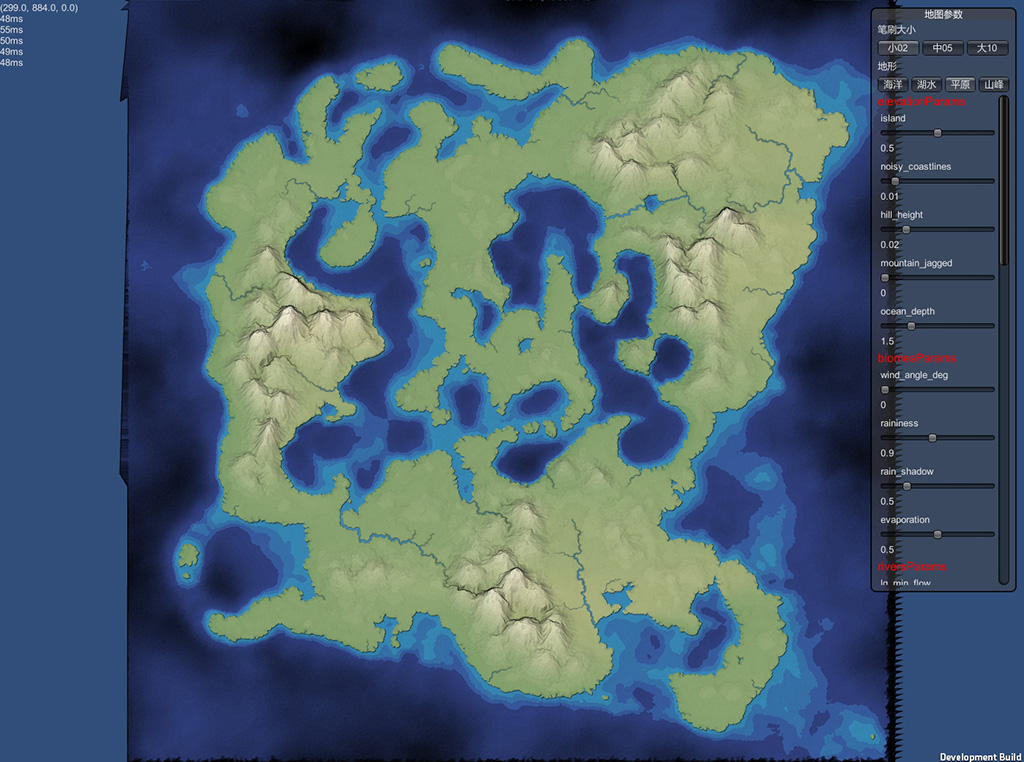
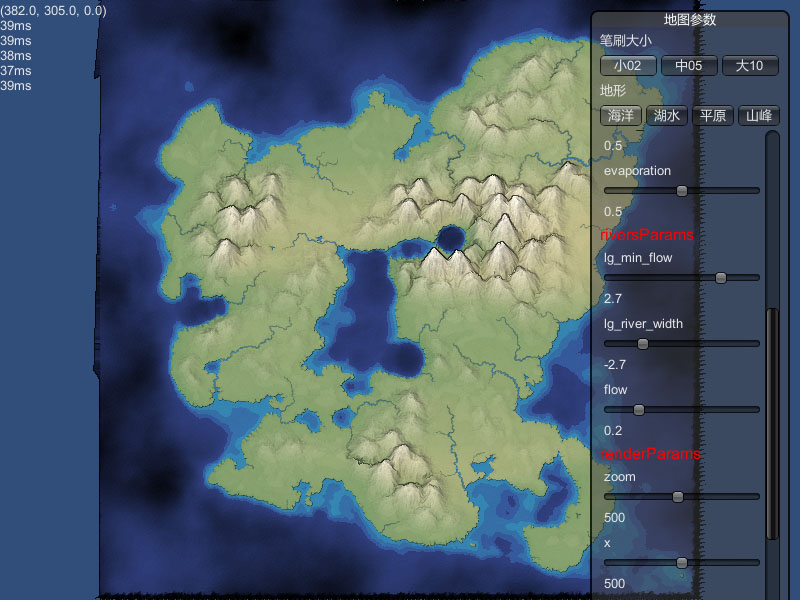
[!] 地形修改后渲染到纹理 => GUI.DrawTexture(rt)

diff --git a/Assets/MapMesh.cs b/Assets/MapMesh.cs
@@ -26,6 +26,8 @@ namespace Assets
         private GameObject tmpObj { get; set; }
         private Camera mainCamera { get; set; }
 
+        public RenderTexture renderTexture { get; private set; }
+
 
         private void Awake()
         {
@@ -39,7 +41,11 @@ namespace Assets
             landzs = MeshSplit.createMesh(transform, "map mesh");
 
             tmpObj = new GameObject("__worldToLandPosition");
+
             mainCamera = Camera.main;
+            renderTexture = new RenderTexture(Screen.width, Screen.height, 0);
+            mainCamera.targetTexture = renderTexture;
+            mainCamera.gameObject.SetActive(false);
         }
 
         private void OnDestroy()
@@ -92,6 +98,8 @@ namespace Assets
             rtCamera.RenderWithShader(shaders[1], string.Empty);
 
             rtCamera.targetTexture = rt;
+
+            mainCamera.Render();
         }
 
         public Vector3 getHitPosition()

diff --git a/Assets/MapGUI.cs b/Assets/MapGUI.cs
@@ -115,6 +115,8 @@ namespace Assets
         // Update is called once per frame
         private void OnGUI()
         {
+            GUI.DrawTexture(new Rect(0, 0, Screen.width, Screen.height), mapMesh.renderTexture, ScaleMode.StretchToFill, false);
+
             if (activeUI) clientRect = GUI.Window(10086, clientRect, WindowFunction, "地图参数");
 
             string txt = $"{Input.mousePosition}\n";
